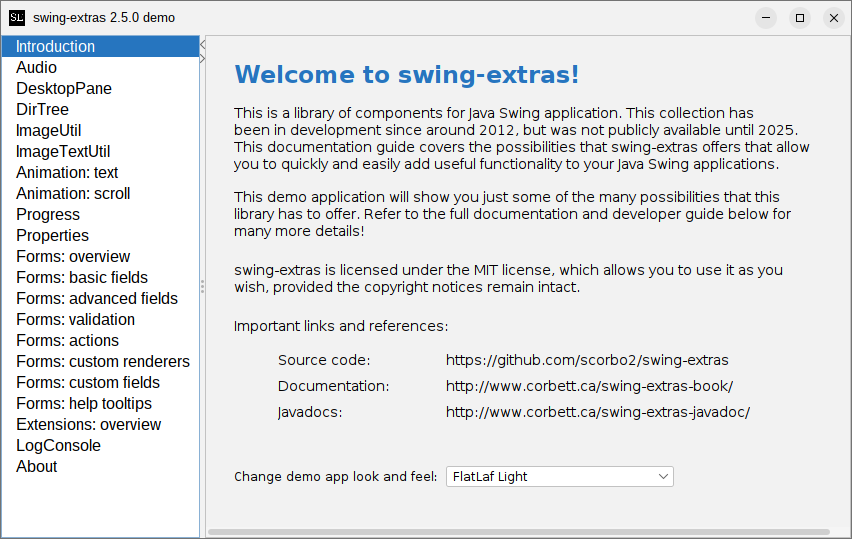
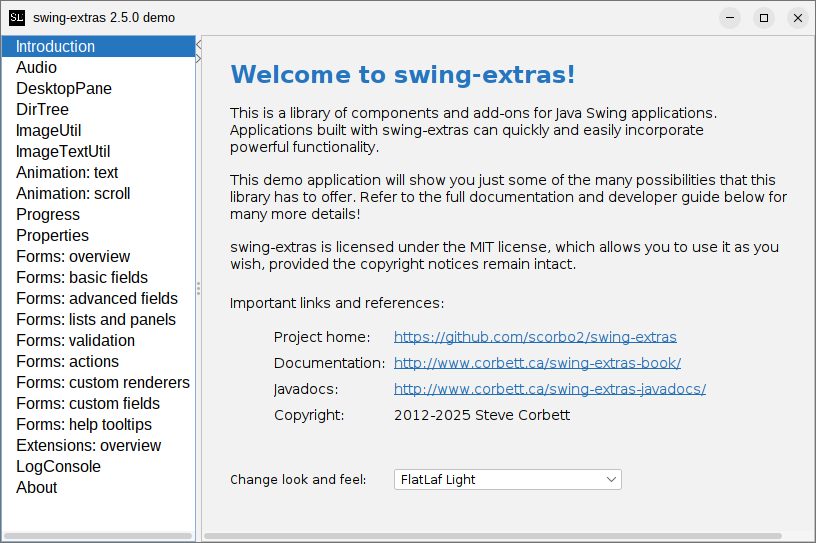
Minor changes to demo app introductory page, also update README screenshot for 2.5 release

diff --git a/src/main/java/ca/corbett/extras/demo/panels/IntroPanel.java b/src/main/java/ca/corbett/extras/demo/panels/IntroPanel.java
@@ -34,10 +34,9 @@ public class IntroPanel extends PanelBuilder {
         FormPanel introPanel = buildFormPanel("Welcome to swing-extras!");
 
         // Multi-line labels are quite easy to generate by wrapping the text in html tags:
-        String txt = "<html>This is a library of components for Java Swing application. This collection has<br>" +
-                "been in development since around 2012, but was not publicly available until 2025.<br>" +
-                "This documentation guide covers the possibilities that swing-extras offers that allow<br>" +
-                "you to quickly and easily add useful functionality to your Java Swing applications.<br/></html>";
+        String txt = "<html>This is a library of components and add-ons for Java Swing applications.<br>" +
+                "Applications built with swing-extras can quickly and easily incorporate<br>" +
+                "powerful functionality.</html>";
         introPanel.add(LabelField.createPlainHeaderLabel(txt, 14));
 
         txt = "<html>This demo application will show you just some of the many possibilities that this<br>" +
@@ -49,7 +48,6 @@ public class IntroPanel extends PanelBuilder {
         txt = "<html>swing-extras is licensed under the MIT license, which allows you to use it as you<br/>"
                 + "wish, provided the copyright notices remain intact.</html>";
         labelField = LabelField.createPlainHeaderLabel(txt, 14);
-        labelField.getMargins().setTop(14);
         introPanel.add(labelField);
 
         labelField = LabelField.createPlainHeaderLabel("Important links and references:", 14);
@@ -58,7 +56,7 @@ public class IntroPanel extends PanelBuilder {
 
         // We can use custom left margins to indent sub-fields like these.
         // We can also reduce the bottom margin to 0 to push the fields together vertically.
-        labelField = new LabelField("Source code:", Version.PROJECT_URL);
+        labelField = new LabelField("Project home:", Version.PROJECT_URL);
         Font labelFont = LabelField.getDefaultLabelFont().deriveFont(14f); // make it a bit bigger
         labelField.getFieldLabel().setFont(labelFont);
         labelField.setFont(labelFont);
@@ -74,17 +72,23 @@ public class IntroPanel extends PanelBuilder {
         addHyperlinkIfUrlIsValid(labelField, docUrl);
         introPanel.add(labelField);
 
-        final String javadocUrl = "http://www.corbett.ca/swing-extras-javadoc/";
+        final String javadocUrl = "http://www.corbett.ca/swing-extras-javadocs/";
         labelField = new LabelField("Javadocs:", javadocUrl);
         labelField.getFieldLabel().setFont(labelFont);
         labelField.setFont(labelFont);
-        labelField.getMargins().setLeft(48); // indent
+        labelField.getMargins().setLeft(48).setBottom(0); // indent and also group together vertically
         addHyperlinkIfUrlIsValid(labelField, javadocUrl);
+        introPanel.add(labelField);
+
+        labelField = new LabelField("Copyright:", "2012-2025 Steve Corbett");
+        labelField.getFieldLabel().setFont(labelFont);
+        labelField.setFont(labelFont);
+        labelField.getMargins().setLeft(48); // indent
         introPanel.add(labelField);
 
         // We can use LookAndFeelProperty to generate a FormField for us that we can use
         // to change the Look and Feel for the demo app. Wiring up this field is quite easy:
-        LookAndFeelProperty lafProperty = new LookAndFeelProperty("", "Change demo app look and feel:");
+        LookAndFeelProperty lafProperty = new LookAndFeelProperty("", "Change look and feel:");
         //noinspection unchecked
         final ComboField<String> lafCombo = (ComboField<String>)lafProperty.generateFormField();
         lafCombo.addValueChangedListener(field -> {
